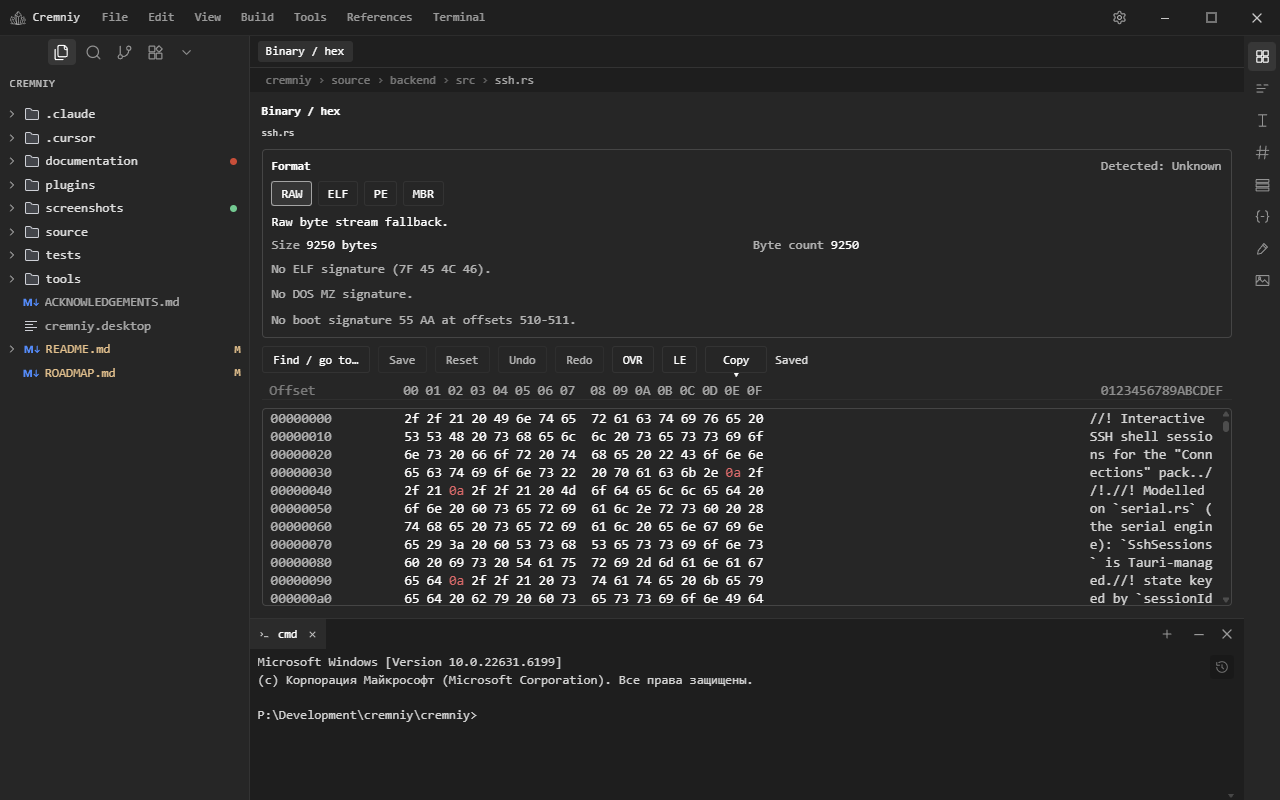
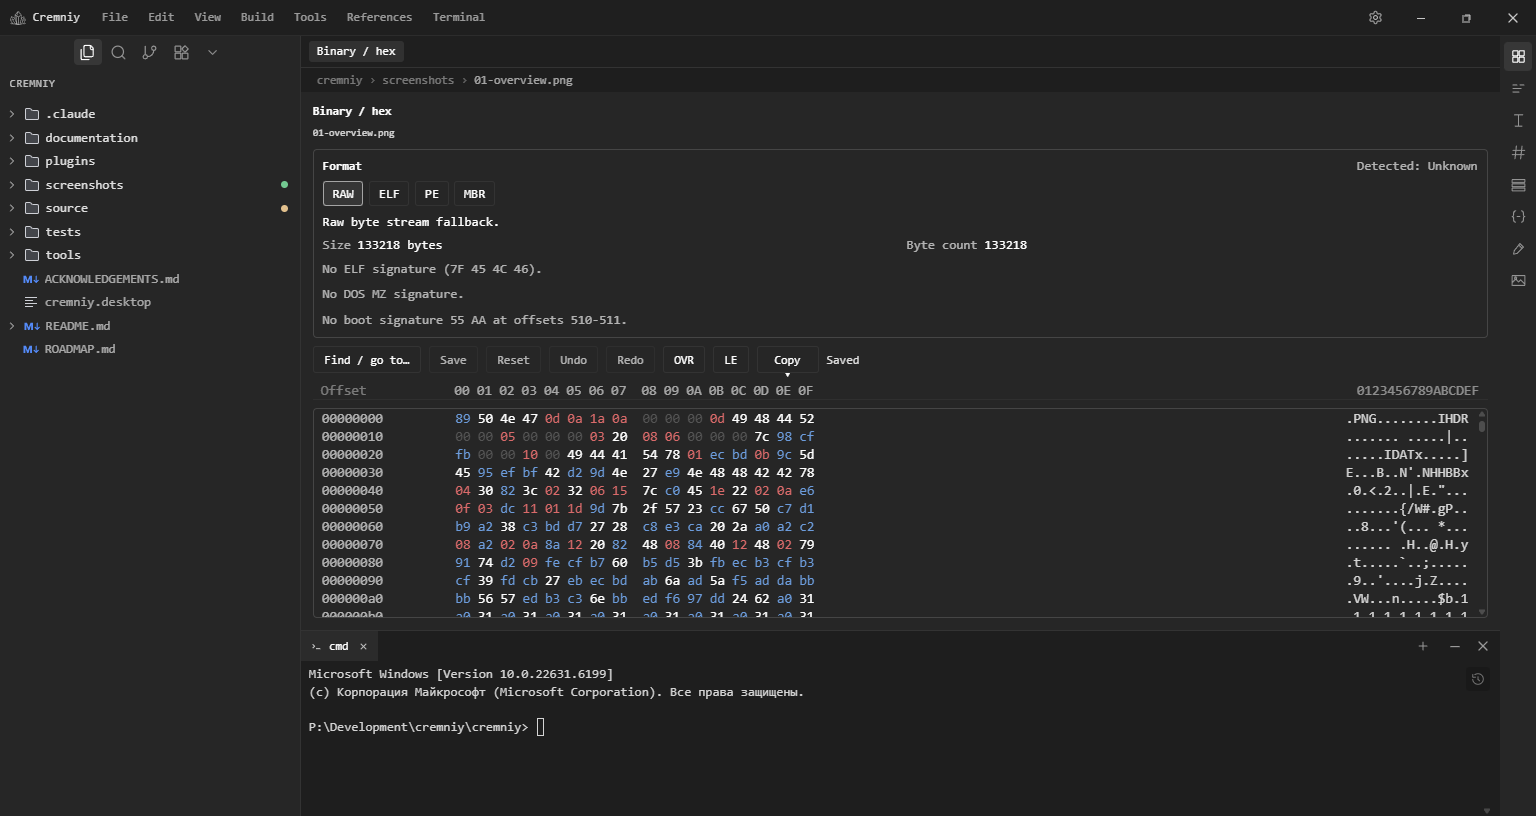
docs(screenshots): add disassembler shot, hex on a real binary

diff --git a/screenshots/README.md b/screenshots/README.md
@@ -1,8 +1,9 @@
 # Screenshots
 
 A visual tour of Cremniy — an integrated environment for low-level and
-reverse-engineering work. Every tool lives in one window and the feature set is
-built from plugins. · Визуальный тур по Cremniy.
+reverse-engineering work. Every tool lives in one window, binaries open straight
+from the file tree, and the feature set is built from plugins. · Визуальный тур
+по Cremniy.
 
 ---
 
@@ -22,17 +23,32 @@ window — the whole low-level workflow without switching between separate apps.
 
 ![Hex editor](02-hex.png)
 
-Byte-level editing with side-by-side hex and ASCII panes, undo/redo and patch
-export. Recognises common container formats (ELF, PE, MBR and friends).
+Open any file as bytes — side-by-side hex and ASCII panes, undo/redo and patch
+export. The format panel recognises common containers (ELF, PE, MBR) or falls
+back to a raw byte stream.
 
-> Правка на уровне байтов: hex- и ASCII-панели рядом, undo/redo и экспорт
-> патчей. Распознаёт распространённые форматы (ELF, PE, MBR и другие).
+> Откройте любой файл как байты — hex- и ASCII-панели рядом, undo/redo и экспорт
+> патчей. Панель формата распознаёт ELF, PE, MBR или показывает сырой поток.
 
 ---
 
-### 3. Source control, built in · Встроенный контроль версий
+### 3. Disassembler · Дизассемблер
 
-![Git](03-git.png)
+![Disassembler](03-disasm.png)
+
+Disassemble an executable into annotated x86 / x64 — sections, function labels,
+string references and inline byte patching. Runs on an embedded `iced-x86`
+engine, so no external toolchain is required.
+
+> Дизассемблирование исполняемого файла в x86 / x64 — секции, метки функций,
+> строковые ссылки и патчинг байтов. Работает на встроенном движке `iced-x86`,
+> внешний тулчейн не нужен.
+
+---
+
+### 4. Source control, built in · Встроенный контроль версий
+
+![Git](04-git.png)
 
 The Git plugin opens as a center tab — local and remote branches, stash,
 history and merge/rebase, working against a real repository.
@@ -42,9 +58,9 @@ history and merge/rebase, working against a real repository.
 
 ---
 
-### 4. Everything is a plugin · Всё — плагин
+### 5. Everything is a plugin · Всё — плагин
 
-![Extensions](04-extensions.png)
+![Extensions](05-extensions.png)
 
 Connections, Source Control and Binary Tools are plugins. Enable or disable any
 of them from the Extensions panel — the UI appears or disappears live, with no
@@ -56,9 +72,9 @@ reload.
 
 ---
 
-### 5. A page for every plugin · Страница у каждого плагина
+### 6. A page for every plugin · Страница у каждого плагина
 
-![Plugin details](05-plugin-details.png)
+![Plugin details](06-plugin-details.png)
 
 Each plugin has its own details tab — description, the panels and commands it
 contributes, version, author and links — rendered from the plugin's manifest.
@@ -68,9 +84,9 @@ contributes, version, author and links — rendered from the plugin's manifest.
 
 ---
 
-### 6. Connections · Подключения
+### 7. Connections · Подключения
 
-![Connections](06-connections.png)
+![Connections](07-connections.png)
 
 Save serial, SSH and SFTP hosts and open them as terminal tabs — part of the
 Connections plugin.
@@ -80,9 +96,9 @@ Connections plugin.
 
 ---
 
-### 7. SFTP file transfer · Передача файлов по SFTP
+### 8. SFTP file transfer · Передача файлов по SFTP
 
-![SFTP](07-sftp.png)
+![SFTP](08-sftp.png)
 
 A dual-pane local ↔ remote file browser over SSH — upload and download without
 leaving the IDE.

diff --git a/README.md b/README.md
@@ -131,7 +131,7 @@ You constantly **switch** between different windows, and the tools are **not lin
 |  |  |
 |---|---|
 | **One window, every tool**<br>![Overview](screenshots/01-overview.png) | **Hex / binary editor**<br>![Hex editor](screenshots/02-hex.png) |
-| **Source control, built in**<br>![Git](screenshots/03-git.png) | **Everything is a plugin**<br>![Extensions](screenshots/04-extensions.png) |
+| **Disassembler**<br>![Disassembler](screenshots/03-disasm.png) | **Everything is a plugin**<br>![Extensions](screenshots/05-extensions.png) |
 
 → **[Full screenshot gallery](screenshots/README.md)** — every tool with descriptions.
 
@@ -263,7 +263,7 @@ npm run tauri:build
 |  |  |
 |---|---|
 | **Все инструменты в одном окне**<br>![Обзор](screenshots/01-overview.png) | **HEX / бинарный редактор**<br>![HEX](screenshots/02-hex.png) |
-| **Встроенный контроль версий**<br>![Git](screenshots/03-git.png) | **Всё — плагин**<br>![Extensions](screenshots/04-extensions.png) |
+| **Дизассемблер**<br>![Disassembler](screenshots/03-disasm.png) | **Всё — плагин**<br>![Extensions](screenshots/05-extensions.png) |
 
 → **[Полная галерея скриншотов](screenshots/README.md)** — все инструменты с описанием.
 